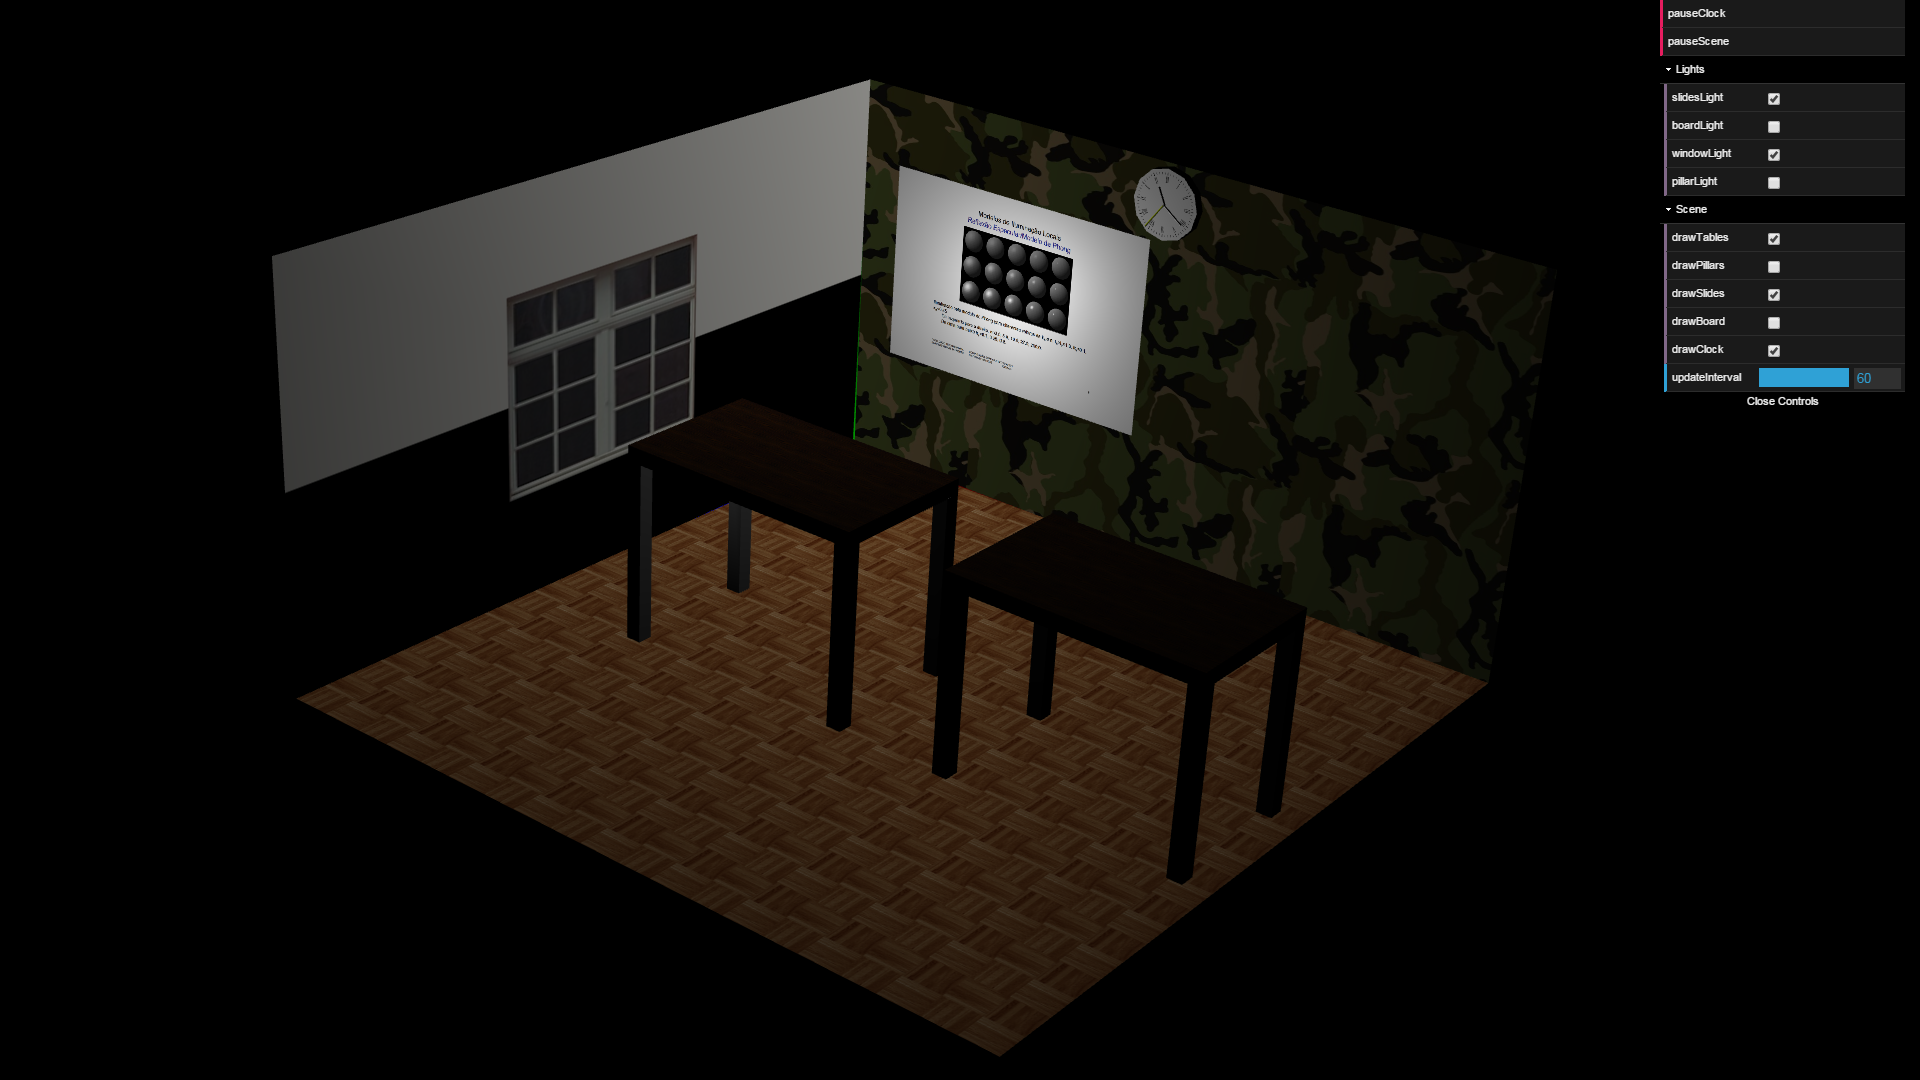
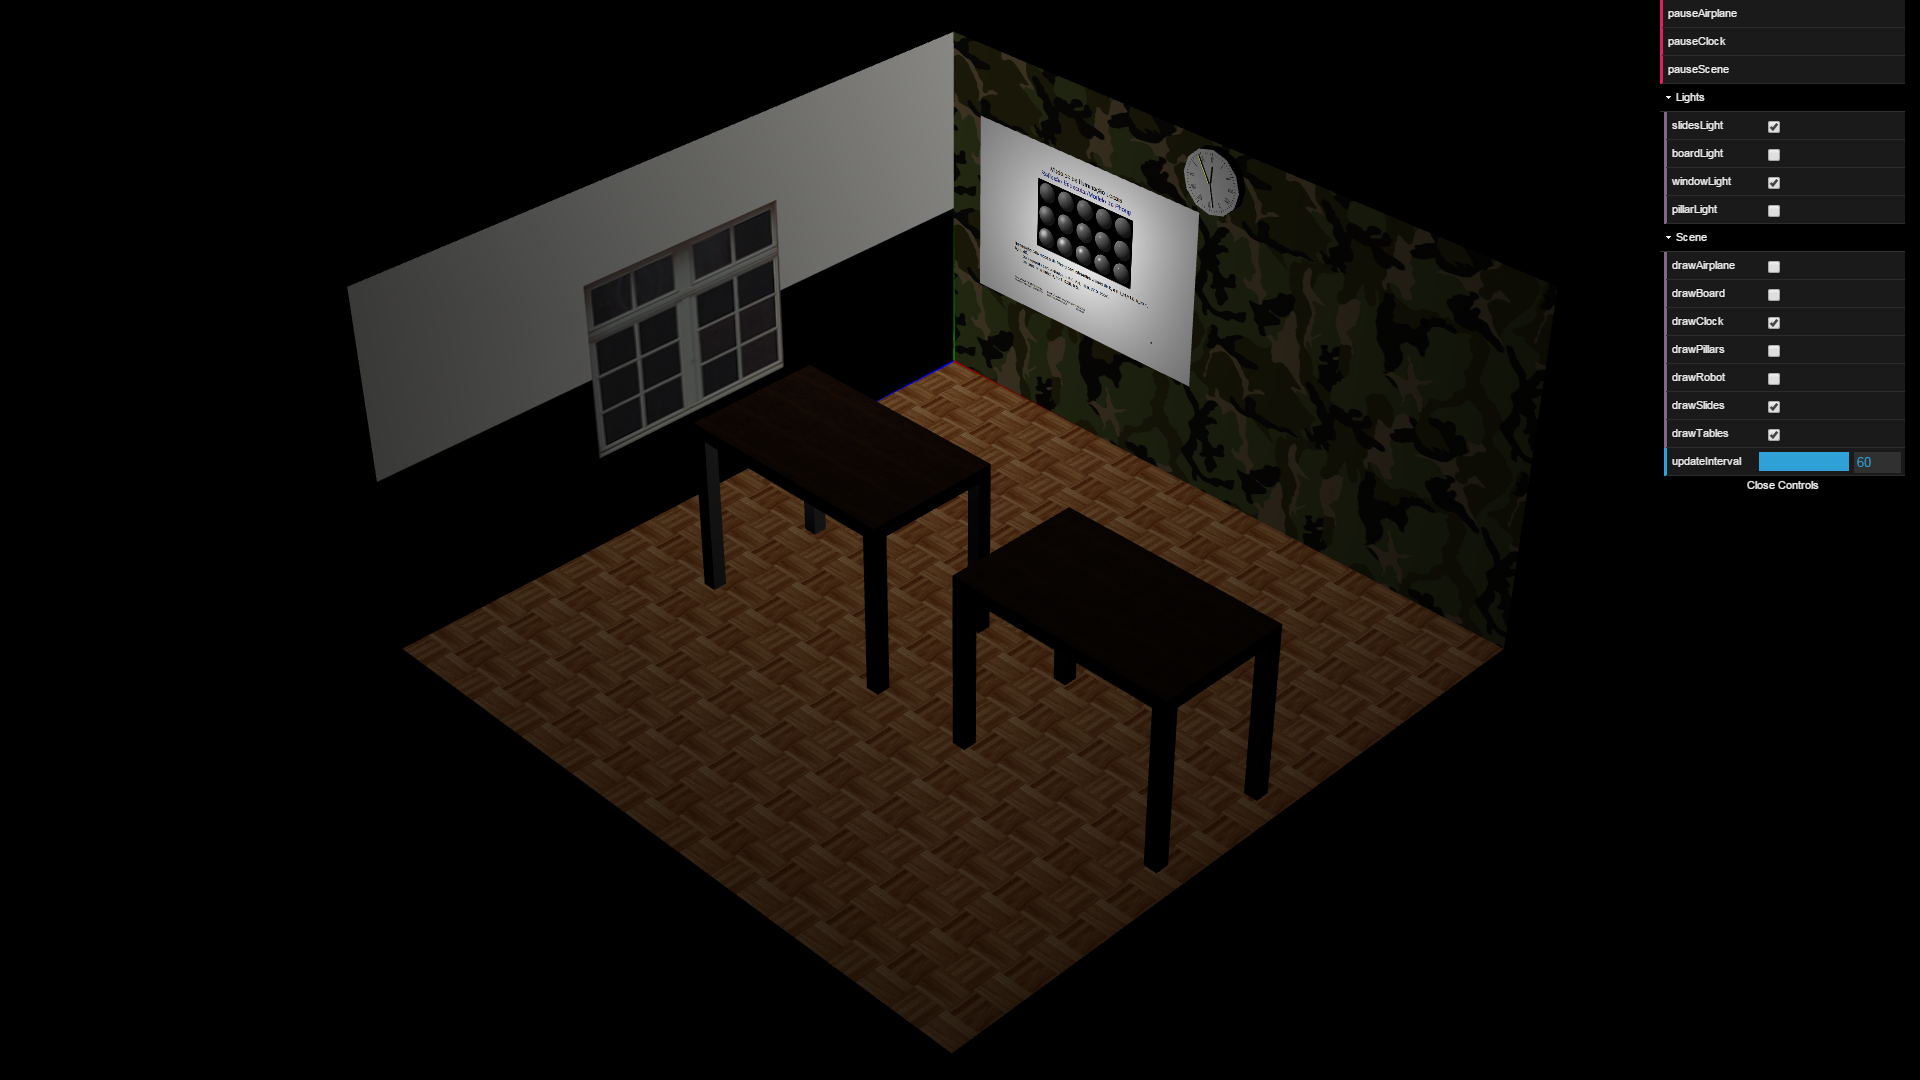
aula prática 6 FINAL

diff --git a/TP6/tp6/LightingScene.js b/TP6/tp6/LightingScene.js
@@ -27,18 +27,14 @@ LightingScene.prototype.init = function(application)
 	this.gl.enable(this.gl.CULL_FACE);
 	this.gl.depthFunc(this.gl.LEQUAL);
 
-	this.numberFrames = 70;
-	this.animationSection = 0;
-	this.currentFrame = 0;
-	this.currentY = 9.0;
-	this.currentZ = 24.0;
-	this.currentAngle = 0
-	
+	this.airplanePaused = false;
 	this.clockPaused = false; 
 	this.scenePaused = false;
+	this.drawAirplane = true;
 	this.drawClock = true;
 	this.drawTables = true;
 	this.drawPillars = true;
+	this.drawRobot = true;
 	this.drawSlides = true;
 	this.drawBoard = true;
 	this.updateInterval = 60;
@@ -105,6 +101,11 @@ LightingScene.prototype.init = function(application)
 	this.wallAppearance.setTextureWrap("REPEAT", "REPEAT");
 
 	this.setUpdatePeriod(1000 / this.updateInterval);
+};
+
+LightingScene.prototype.pauseAirplane = function()
+{
+	this.airplanePaused = !this.airplanePaused;
 };
 
 LightingScene.prototype.pauseClock = function()
@@ -223,29 +224,9 @@ LightingScene.prototype.update = function(currTime)
 		this.clock.update(currTime);
 	}
 	
-	this.currentFrame++;
-
-	if (this.currentFrame >= this.numberFrames && this.animationSection < 2)
+	if (!this.airplanePaused)
 	{
-		this.animationSection++;
-		this.currentFrame = 0;
-	}
-
-	switch (this.animationSection)
-	{
-		case 0:
-			this.currentZ -= 21 / this.numberFrames;
-			this.currentAngle += Math.PI / 12 / this.numberFrames;
-			break;		
-		case 1:
-			this.currentY -= 8.5 / this.numberFrames;
-			if (this.currentAngle > -Math.PI / 2)
-				this.currentAngle -= Math.PI / 12;
-			break;
-		default:
-			this.currentZ = 6.5;
-			this.currentAngle = Math.PI;
-			break;
+		this.airplane.update();
 	}
 }
 
@@ -339,21 +320,23 @@ LightingScene.prototype.display = function()
 		this.popMatrix();
 	}
 
-	// Airplane
-	this.pushMatrix();
-	this.translate(-1.5,0,0);
-	this.scale(0.5, 0.5, 0.5);
-	this.rotate(Math.PI/2, 0, 1, 0);
-	this.translate(-15.0, this.currentY, this.currentZ);
-	this.rotate(this.currentAngle, 1, 0, 0);
-	this.airplane.display();
-	this.popMatrix();
+	if (this.drawAirplane)
+	{
+		// Airplane
+		this.pushMatrix();
+		this.airplane.draw();
+		this.airplane.display();
+		this.popMatrix();
+	}
 
-	// Robot
-	this.pushMatrix();
-	this.robot.draw();
-	this.robot.display();
-	this.popMatrix();
+	if (this.drawRobot)
+	{
+		// Robot
+		this.pushMatrix();
+		this.robot.draw();
+		this.robot.display();
+		this.popMatrix();
+	}
 	
 	if (this.drawPillars)
 	{

diff --git a/TP6/tp6/MyAirplane.js b/TP6/tp6/MyAirplane.js
@@ -3,12 +3,20 @@ function MyAirplane(scene)
 	CGFobject.call(this, scene);
 
 	this.initBuffers();
+	this.currentFrame = 0;
+	this.numberFrames = 70;
+	this.animationStopped = false;
+	this.animationSection = 0;
+	this.currentX = -15.0;
+	this.currentY = 9.0;
+	this.currentZ = 24.0;
+	this.currentAngle = 0.0;
 };
 
 MyAirplane.prototype = Object.create(CGFobject.prototype);
 MyAirplane.prototype.constructor = MyAirplane;
 
-MyAirplane.prototype.display = function() 
+MyAirplane.prototype.initBuffers = function() 
 {
 	this.vertices = 
 	[
@@ -45,3 +53,59 @@ MyAirplane.prototype.display = function()
 	this.primitiveType = this.scene.gl.TRIANGLES;
 	this.initGLBuffers();
 };
+
+MyAirplane.prototype.draw = function() 
+{
+	this.scene.translate(-1.5, 0.0, 0.0);
+	this.scene.scale(0.5, 0.5, 0.5);
+	this.scene.rotate(Math.PI / 2, 0, 1, 0);
+	this.scene.translate(-15.0, this.currentY, this.currentZ);
+	this.scene.rotate(this.currentAngle, 1, 0, 0);
+}
+
+MyAirplane.prototype.reset = function()
+{
+	this.currentFrame = 0;
+	this.numberFrames = 70;
+	this.animationStopped = false;
+	this.animationSection = 0;
+	this.currentX = -15.0;
+	this.currentY = 9.0;
+	this.currentZ = 24.0;
+	this.currentAngle = 0.0;
+}
+
+MyAirplane.prototype.update = function()
+{
+	this.currentFrame++;
+
+	if (this.currentFrame >= this.numberFrames && this.animationSection < 3)
+	{
+		this.animationSection++;
+		this.currentFrame = 0;
+	}
+
+	if (this.animationSection == 0)
+	{
+		this.currentZ -= 21 / this.numberFrames;
+		this.currentAngle += Math.PI / 12 / this.numberFrames;
+	}
+	else if (this.animationSection == 1)
+	{
+		this.currentY -= 8.5 / this.numberFrames;
+		
+		if (this.currentAngle > -Math.PI / 2)
+		{
+			this.currentAngle -= Math.PI / 12;
+		}	
+	}	
+	else if (this.animationSection == 2)
+	{
+		this.currentZ = 6.5;
+		this.currentAngle = Math.PI;
+	}
+	else
+	{
+		this.reset();
+	}
+}

diff --git a/TP6/tp6/MyInterface.js b/TP6/tp6/MyInterface.js
@@ -11,6 +11,7 @@ MyInterface.prototype.init = function(application)
 	CGFinterface.prototype.init.call(this, application);
 	
 	this.gui = new dat.GUI();
+	this.gui.add(this.scene, 'pauseAirplane');
 	this.gui.add(this.scene, 'pauseClock');	
 	this.gui.add(this.scene, 'pauseScene');	
 	
@@ -25,11 +26,13 @@ MyInterface.prototype.init = function(application)
 	var groupScene = this.gui.addFolder("Scene");
 
 	groupScene.open();
-	groupScene.add(this.scene, 'drawTables');
-	groupScene.add(this.scene, 'drawPillars');
-	groupScene.add(this.scene, 'drawSlides');
+	groupScene.add(this.scene, 'drawAirplane');
 	groupScene.add(this.scene, 'drawBoard');
 	groupScene.add(this.scene, 'drawClock');
+	groupScene.add(this.scene, 'drawPillars');
+	groupScene.add(this.scene, 'drawRobot');
+	groupScene.add(this.scene, 'drawSlides');
+	groupScene.add(this.scene, 'drawTables');	
 	groupScene.add(this.scene, 'updateInterval', 10, 60);
 
 	return true;
